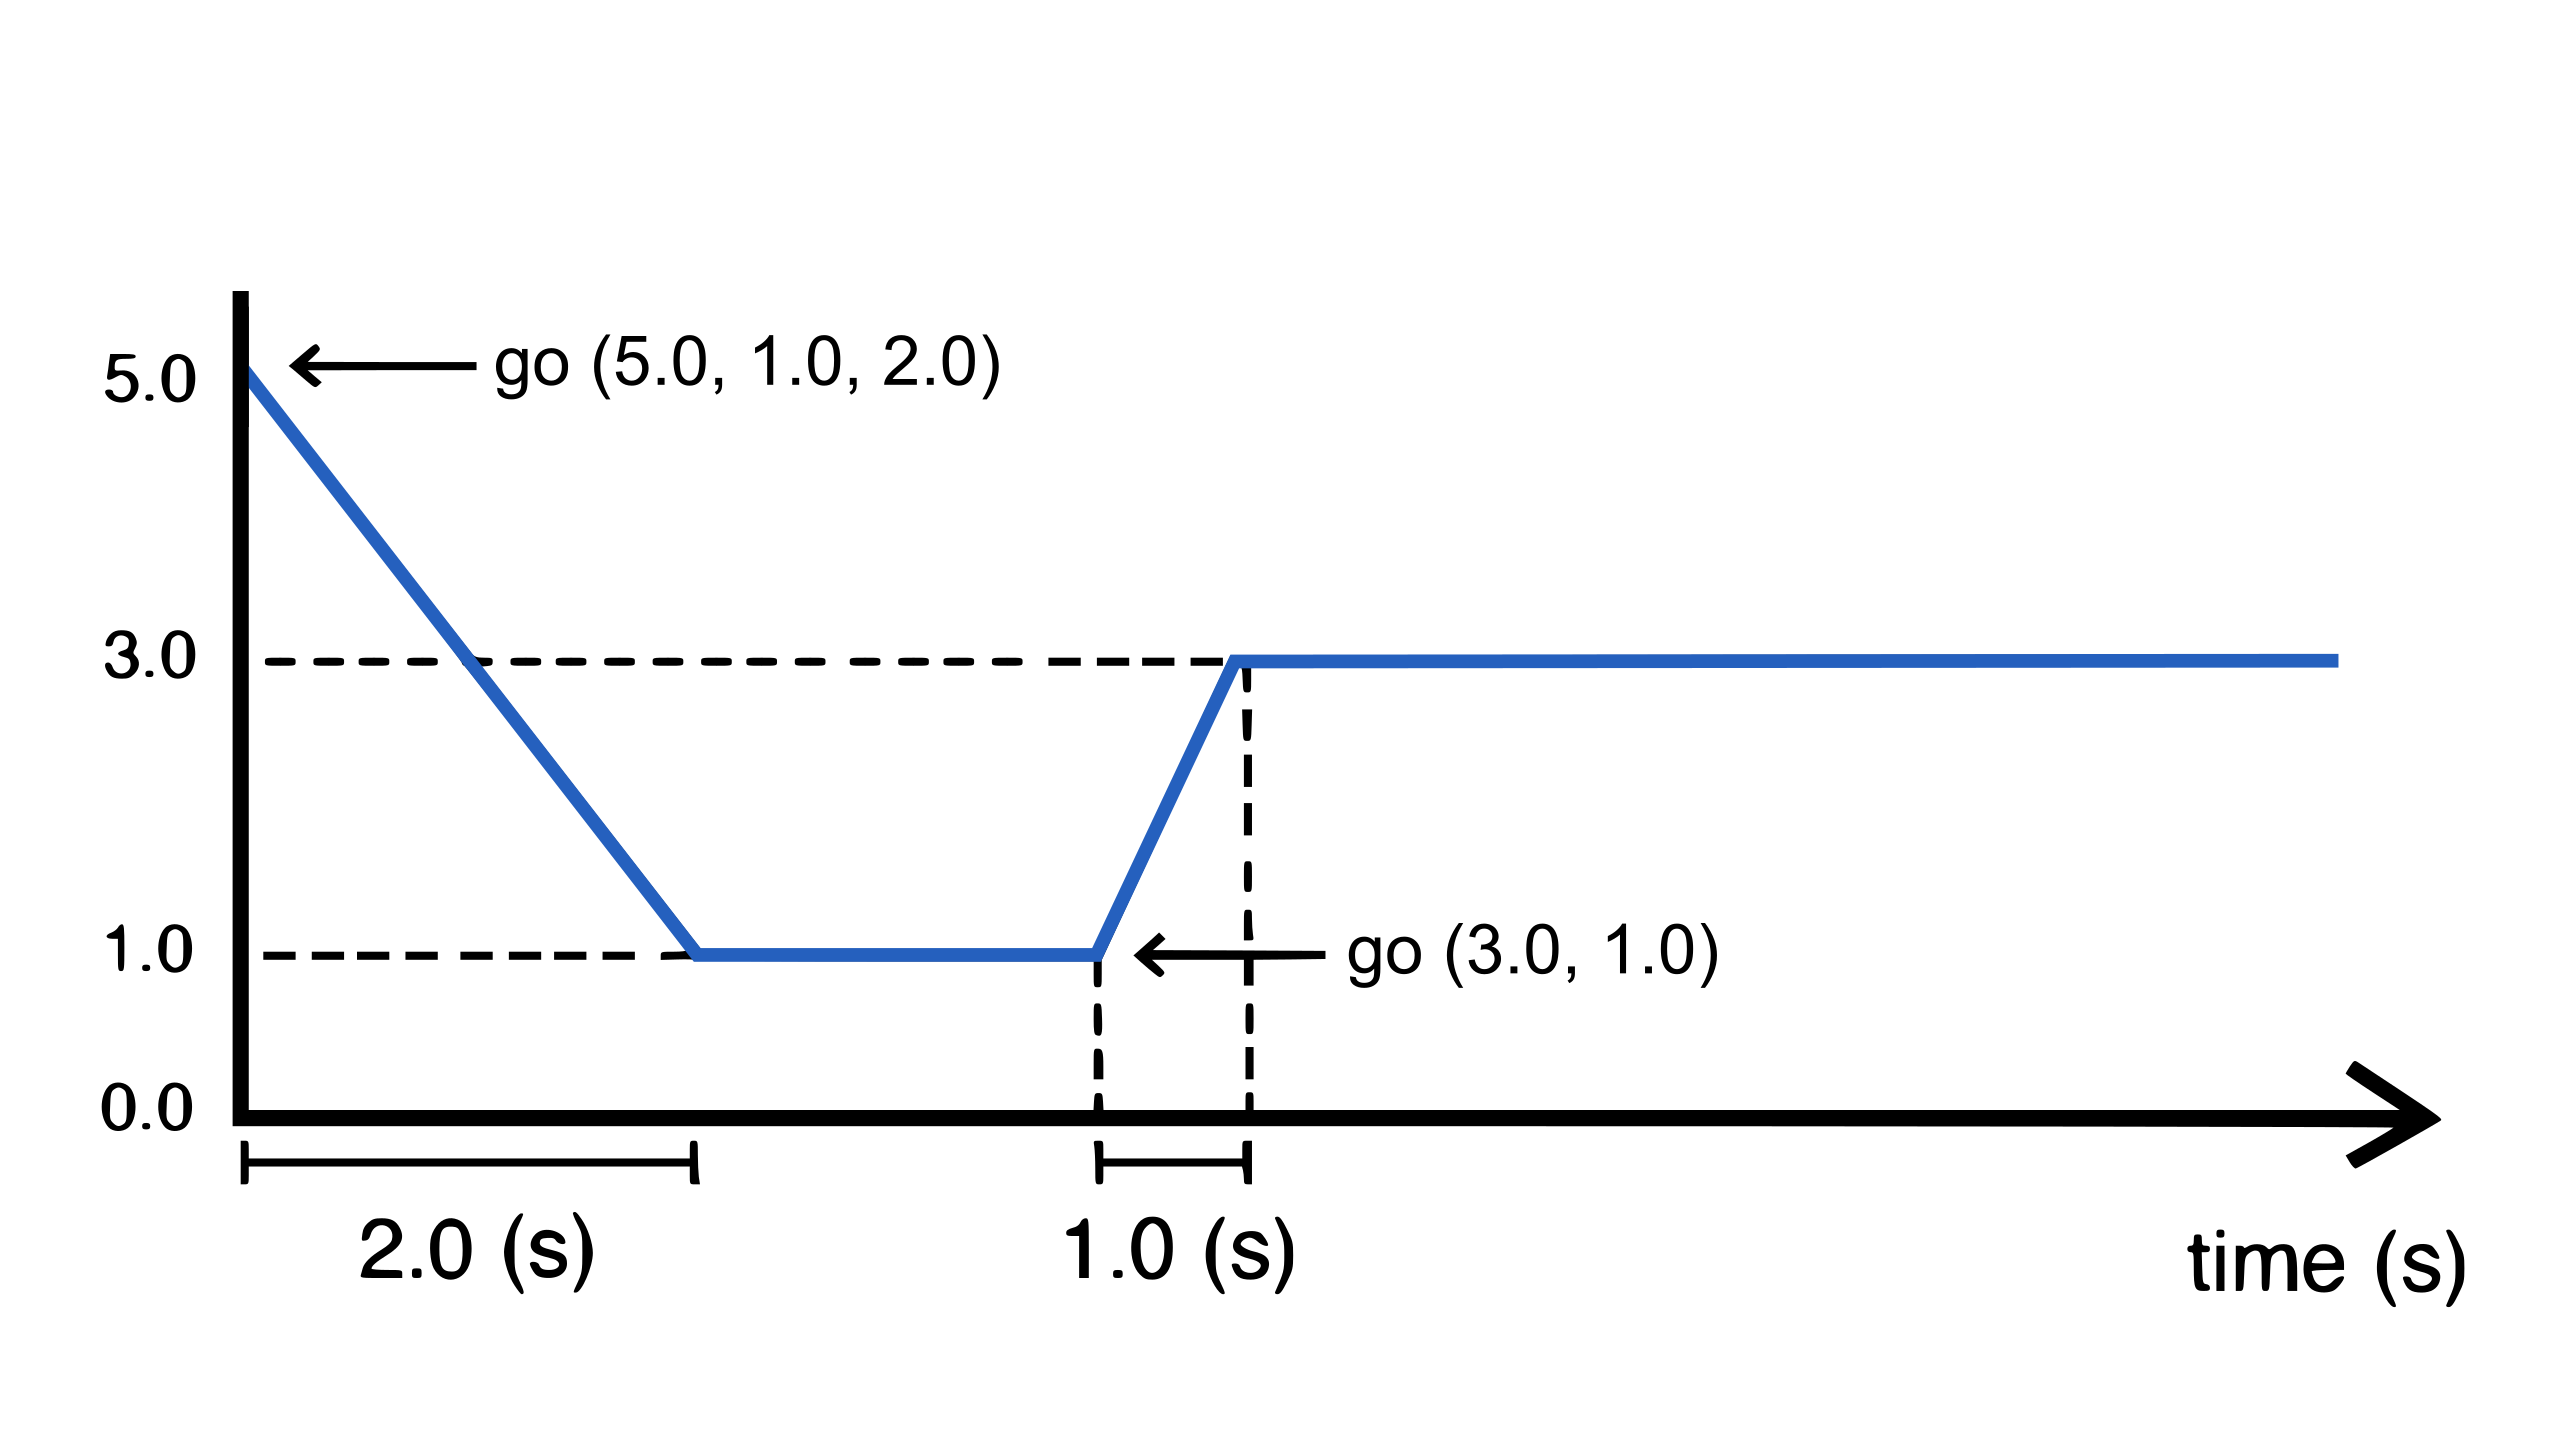
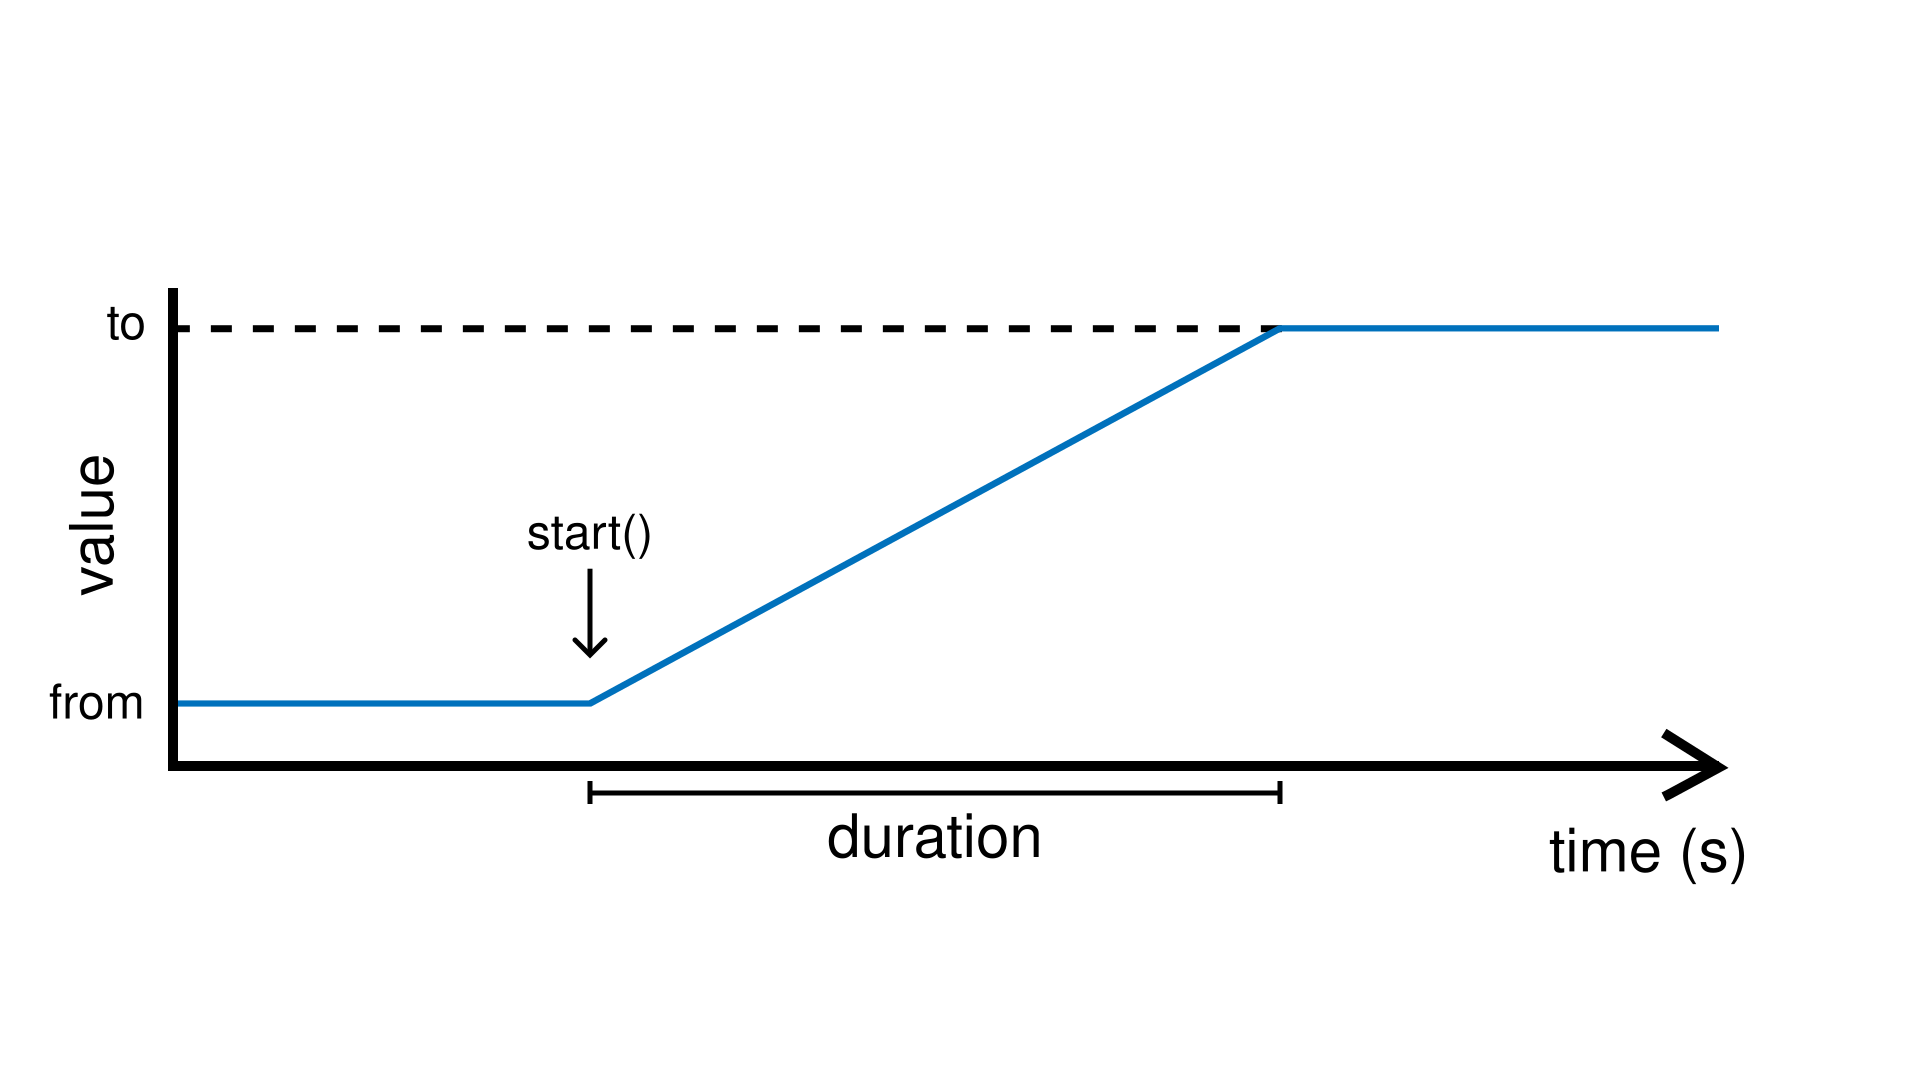
Fixed documentation on Ramp.

diff --git a/docs/Ramp.rst b/docs/Ramp.rst
@@ -3,8 +3,9 @@
 Ramp
 ====
 
-A source unit that generates a smooth transition between two values. The unit can be
-triggered to start transitioning to a target value for a certain duration.
+A source unit that generates a smooth transition between a starting value and an ending
+value over a given duration. The transition begins when ``start()`` is called, and the
+ramp's current value can be read or piped to an output at any time.
 
 Parameters
 ----------
@@ -46,65 +47,180 @@ Events
      - ``finished()``
      - ``onFinish(c)``
 
-Usage
------
+Basic Usage
+-----------
 
-There are two ways to start the ramp:
+A ramp is defined by three values:
 
- * ``go(to)``: starts a transition from the ramp's current value to ``to`` using latest ramp duration
- * ``go(to, duration)``: starts a transition from the ramp's current value to ``to`` in ``duration`` seconds.
- * ``go(from, to, duration)``: ramp will transition from value ``from`` to value ``to`` in ``duration`` seconds.
+ * ``from()`` is the value at which the ramp starts (default: 0)
+ * ``to()`` is the value where the ramp ends (default: 1)
+ * ``duration()`` is the duration the ramp takes to go from ``from`` to ``to``
 
-The following diagram shows what happens to the ramp signal if ``go(5.0, 1.0, 2.0)`` is called, followed later by ``go(3.0, 1.0)``:
+It can then be started by calling the ``start()`` function.
+
+.. tip::
+
+  As an alternative to ``duration``, one can use the ``speed`` parameter instead to
+  specify transition time in values-per-seconds. This is useful when we want to maintain
+  a stable rate of change when the ``from`` and ``to`` values change, such as when
+  controlling servo-motors.
 
 .. image:: images/Plaquette-Ramp.png
-
-.. important::
-  Ramps also support the use of `easing functions <http://easings.net>`_ in order to
-  create different kinds of expressive effects with signals. An easing function can
-  optionally be specified at the end of a ``go()`` command or by calling the
-  ``easing()`` function.
-
-  Please refer to :doc:`this page <easings>` for a full list of available easing functions.
 
 |Example|
 ---------
 
-Sequentially ramps through random values, creating a random walk (aka "drunk") movement.
+Pressing a button below triggers a two-second fade from off to full brightness:
 
 .. code-block:: c++
 
    #include <Plaquette.h>
 
-   Ramp zigZagRamp(2.0); // Default duration: 2 seconds.
+   Ramp fader(2.0); // 2-second ramp, from 0 to 1 by default
+
+   AnalogOut led(9);
+   DigitalIn button(2, INTERNAL_PULLUP);
+
+   void step() {
+     // Press button to trigger the fade.
+     if (button.rose())
+       fader.start();
+
+     // Flow ramp value to LED.
+     fader >> led;
+   }
+
+Easing
+------
+
+Ramps support easing functions to shape the transition curve for more expressive effects.
+Passing an easing function to ``easing()`` applies it to all subsequent transitions.
+
+Please refer to :doc:`this page <easings>` for a full list of available easing functions.
+
+Starting from the example above, add the following ``begin()`` function to specify an
+easing function. Easting ``easeInSine`` makes the fade start slowly and accelerate.
+
+.. code-block:: c++
+
+   void begin() {
+     fader.easing(easeInSine); // slow start, accelerating towards the end
+   }
+
+Changing End Points
+-------------------
+
+The starting value (``from``) and ending value (``to``) can be changed to produce
+different transitions. Setting ``from`` to 1.0 and ``to`` to 0.0 reverses the direction,
+fading the LED from full brightness down to off:
+
+.. code-block:: c++
+
+   void begin() {
+     fader.fromTo(1.0, 0.0); // changes both from (1.0) and to (0.0)
+   }
+
+Values do not need to stay withing [0, 1], they can take any values.
+
+|Example|
+---------
+
+This example uses a metronome to trigger a ramp. The ramp controls the frequency
+of a blinking LED.
+
+.. code-block:: c++
+
+   #include <Plaquette.h>
+
+   Ramp fader(5.0); // 5-second ramp
+
+   Wave wave(SQUARE); // square wave
+   DigitalOut led(13); // blinking LED
+
+   Metronome metro(7.5); // 7.5-second metro
+
+   void begin() {
+     fader.fromTo(2, 10); // ramp from 2 Hz to 10 Hz
+   }
+
+   void step() {
+     // Metronome triggers the ramp.
+     if (metro)
+       fader.start();
+
+     // Flow ramp value wave frequency.
+     fader >> wave.Frequency();
+
+     // Blink LED.
+     wave >> led;
+
+The go() Function
+-----------------
+
+The ``go()`` function provides a simple way to immediately launch a ramp from the current value to another,
+or simply from the current value towards a new goal. It sets ``to`` and ``duration`` or ``speed`` in a single
+call and immediately starts the transition from the current value.
+
+The two main forms are:
+
+* ``go(to)``: transition from the ramp's current value to ``to`` using the current duration or speed.
+* ``go(to, durationOrSpeed)``: transition from the ramp's current value to ``to`` in ``duration`` seconds
+  OR ``speed``, depending on the current mode
+
+.. tip::
+
+  An optional easing function can be passed as the last argument of any ``go()`` call. For example,
+  ``go(2.0, easeInSine)`` and ``go(2.0, 3.0, easeInSine)`` go to value 2.0 using easing function ``easeInSine``
+  (3.0 is the value of duration or speed in the second version).
+
+The following diagram shows what happens to a ramp signal:
+ * Initially the ramp is at value 5.0 with duration of 2.0 seconds.
+ * Calling ``go(1.0)`` starts a ramp from 5.0 to 1.0, using current duration of 2.0 seconds.
+ * Later, calling ``go(3.0, 1.0)`` starts ramping from current value to value 3.0, overriding duration with a 1.0 second duration.
+
+.. image:: images/Plaquette-Ramp-Go.png
+
+|Example|
+---------
+
+The example below uses ``go()`` to create a continuous random walk, chaining from the
+current value to a new random target each time the previous transition completes. It uses
+speed instead of duration.
+
+.. code-block:: c++
+
+   #include <Plaquette.h>
+
+   Ramp zigZagRamp;
 
    Plotter plotter(115200);
 
    void begin() {
+     // Set speed to 1.0 per second.
+     zigZagRamp.speed(1.0);
      // Apply an easing function (optional).
      zigZagRamp.easing(easeOutSine);
-     // Go from zero (initial value) to random value.
+     // Go from zero (initial value) to a random value.
      zigZagRamp.go( randomFloat(-10.0, 10.0) );
    }
 
    void step() {
      if (zigZagRamp.finished()) // event: ramp finished
      {
-       // Ramp from current value to new random value, increasing duration by 1 second each time.
-       zigZagRamp.go(zigZagRamp + randomFloat(-10.0, 10.0), zigZagRamp.duration() + 1);
+       // Ramp from current value to new random value, increasing speed by 1 each time.
+       zigZagRamp.go(zigZagRamp + randomFloat(-10.0, 10.0), zigZagRamp.speed() + 1);
      }
 
      // Send ramp value to plotter for visualization.
      zigZagRamp >> plotter;
    }
 
+Ramp as a Timer
+---------------
 
-|Example|
----------
-
-A ramp can be used as a timer. By default, ramp goes from 0 to 1 (0% to 100%) over a given duration.
-The ramp can thus be used as a measure of progress over time. The example below uses the ramp value to
-cycle through four phases, changing the frequency of a LED pulse at each transition:
+A ramp can be used as a timer (like an analog version of :doc:`Alarm`). By default, ramp goes from 0 to 1
+(0% to 100%) over a given duration. The ramp can thus be used as a measure of progress over time. The example
+below uses the ramp value to cycle through four phases, changing the frequency of a LED pulse at each transition:
 
 .. code-block:: c++
 
@@ -113,10 +229,10 @@ cycle through four phases, changing the frequency of a LED pulse at each transit
    // Ramp over 5 seconds. Default ramp always runs from 0 to 1.
    Ramp timer(5.0);
 
-   // Sine wave oscillator driving the LED.
+   // Square wave oscillator driving the LED.
    Wave pulse(SQUARE);
 
-   // Build-in LED.
+   // Built-in LED.
    DigitalOut led(LED_BUILTIN);
 
    void begin() {

diff --git a/docs/timing_basics.rst b/docs/timing_basics.rst
@@ -265,6 +265,8 @@ Basic Usage
 Like :doc:`Alarm` units, ramps can be restarted by calling their ``start()`` function. By default, they
 will ramp between 0 and 1.
 
+.. image:: images/Plaquette-Ramp.png
+
 **Example**: Gradually increases an LED brightness over 5 seconds every time a button is pressed.
 
 .. code-block:: cpp
@@ -353,10 +355,10 @@ A common scenario in creative applications is to respond to events by changing a
 position of a servomotor, the color of a RGB LED, or the volume of a sound. Ramps are often used in
 these cases to create smooth transitions instead of abrupt changes.
 
-The ``go()`` function provides a simple way to immediately launch a ramp from one value to another,
+The ``go()`` function provides a simple way to immediately launch a ramp from the current value to another,
 or simply from the current value towards a new goal.
 
-.. image:: images/Plaquette-Ramp.png
+.. image:: images/Plaquette-Ramp-Go.png
 
 **Example**: Control blinking frequency using a button. Each time the button is pushed, a new frequency
 is chosen randomly and the ramp smoothly goes to the new frequency.
